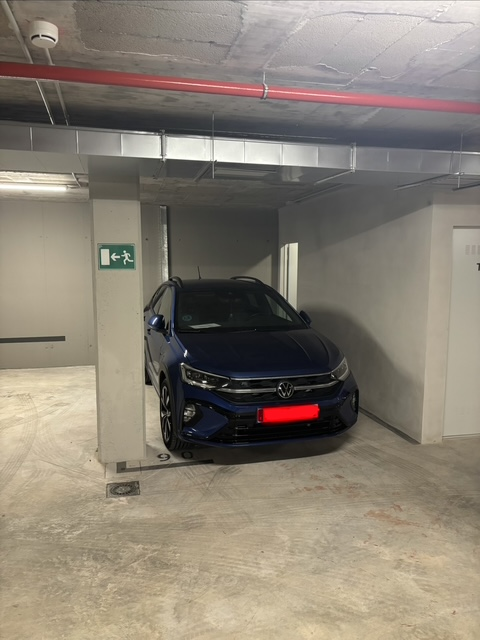
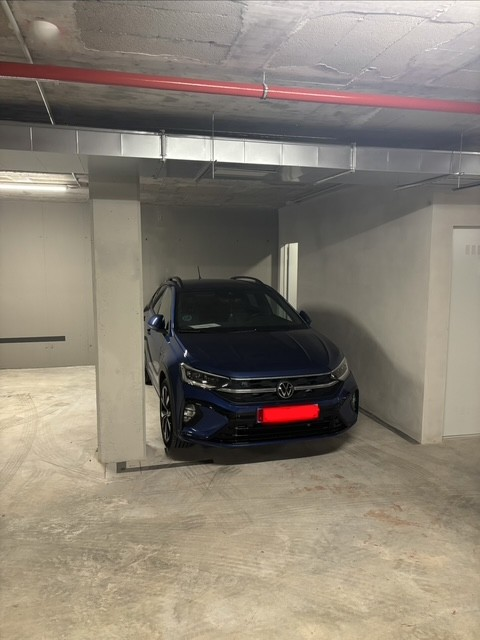
Add files via upload

diff --git a/index.html b/index.html
@@ -15,26 +15,23 @@
         <header>
         </header>
         <section>
-            <p><a id="section1"> </a></p>
 
             <p>¿Buscas estrenar hogar con todas las comodidades, excelente comunicación y acabados de primera calidad? .</p>
-            <p><strong>Se ALQUILA</strong> este amplio y luminoso piso en una <strong>promoción de obra nueva</strong>, y creo que es ideal para ti</p>
+            <p><strong>Se VENDE</strong> este amplio y luminoso piso en una <strong>promoción de obra nueva</strong>, y creo que es ideal para ti</p>
             <h2><strong>CARACTERÍSTICAS DE LA VIVIENDA</strong></h2>
 
-            <p><strong>DISTRIBUCIÓN:</strong></p>
+            <p><strong>DISTRIBUCIÓN y EQUIPAMIENTO:</strong></p>
             <p></strong> <strong>3 dormitorios</strong> (1 individual, 1 doble y 1 suite principal).</p>
                 <p><strong>2 baños completos:</strong> Un baño en suite con moderno plato de ducha y un segundo baño independiente (en la zona del recibidor) equipado con bañera.</p>
-                <p> Salón-comedor con <strong>cocina abierta equipada y amueblada</strong> y acceso a un agradable <strong>balcón</strong>.</p>
+                <p> Amplio salón-comedor con <strong>cocina abierta completamente amueblada y equipada con inducción, horno y microondas.</strong>.</p>
                 <p>Sistema de <strong>aire acondicionado y calefacción</strong> centralizado por toda la casa.</p>
+            <p> <strong>Aerotermia </strong>para el agua caliente> </p>
             <p><strong>ESTADO:</strong></p>
             <p><strong>¡A estrenar!</strong></p>
-            <p>Se alquila <strong>sin muebles</strong>, listo para que lo decores a tu gusto.</p>
-                <p><strong>EXTRAS INCLUIDOS:</strong></p>
+                <p><strong>EXTRAS OPCIONALES:</strong></p>
             <p>Plaza de parking</p>
             <p>Trastero privado.</p>
             <p>  Ascensor</p>
-
-
 
             <h2><strong>ZONAS COMUNES</strong></h2>
 
@@ -42,17 +39,16 @@
                 <p><strong>Parque infantil</strong> privado dentro del recinto residencial.</p>
 
             <h2><strong>CONDICIONES</strong></h2>
+            <p> Vendedor PARTICULAR </p>
 
-                <p><strong>No se admiten mascotas.</strong></p>
-            <p><strong>PRECIO: 1700€ mensuales</strong></p>
-                <p>Solvencia económica demostrable.</p>
+            <p><strong>PRECIO VIVIENDA: 450.000 €</strong></p>
+                <p><strong>PRECIO EXTRAS (Parking y trastero): + 25.000 €</strong></p>
+
 
         </section>
         <section>
-         <p><a id="section2"> </a></p>
         <h2><strong>GALERÍA</strong></h2>
-       
-        <img src="FachadaVivienda.jpeg" alt="Fachada" class="img-galeria" oncontextmenu="return false;">
+
        
         <img src="RellanoVivienda.jpeg" alt="Rellano" class="img-galeria" oncontextmenu="return false;">
        
@@ -88,18 +84,14 @@
         
         <img src="Parking.jpeg" alt="Parking" class="img-galeria" oncontextmenu="return false;">
 
-            <img src="Parking2.jpeg" alt="Parking" class="img-galeria" oncontextmenu="return false;">
-
             <img src="Trastero.jpeg" alt="Trastero" class="img-galeria" oncontextmenu="return false;">
 
             <img src="Piscina.JPG" alt="Piscina" class="img-galeria" oncontextmenu="return false;">
 
-            <img src="PiscinaParqueInfantil.jpeg" alt="Piscina - Parque Infantil" class="img-galeria" oncontextmenu="return false;">
 
         </section>
 
             <section>
-        <p><a id="section3"> </a></p>
         <h2>UBICACIÓN</h2>
 
                 <p>Situado en una zona muy bien comunicada junto a la <strong>Calle Aragón</strong>, con acceso rápido y directo a la autopista, además de contar con servicios, comercios y transporte público a pocos pasos.</p>
@@ -109,12 +101,9 @@
 <footer>
   </footer>
 
-
-
-        
  <div class="barra-contacto-fija">
     <div class="contenedor-flexible">
-        <span class="texto-cita"><strong>CONTACTO:</strong></span>
+        <span class="texto-cita"><strong>¿Te interesa? Contáctame: </strong></span>
 
         <a href="https://wa.me/34649451783" target="_blank" class="enlace-contacto">
             <img src="whatsapp.png" alt="whatsapp"> 
